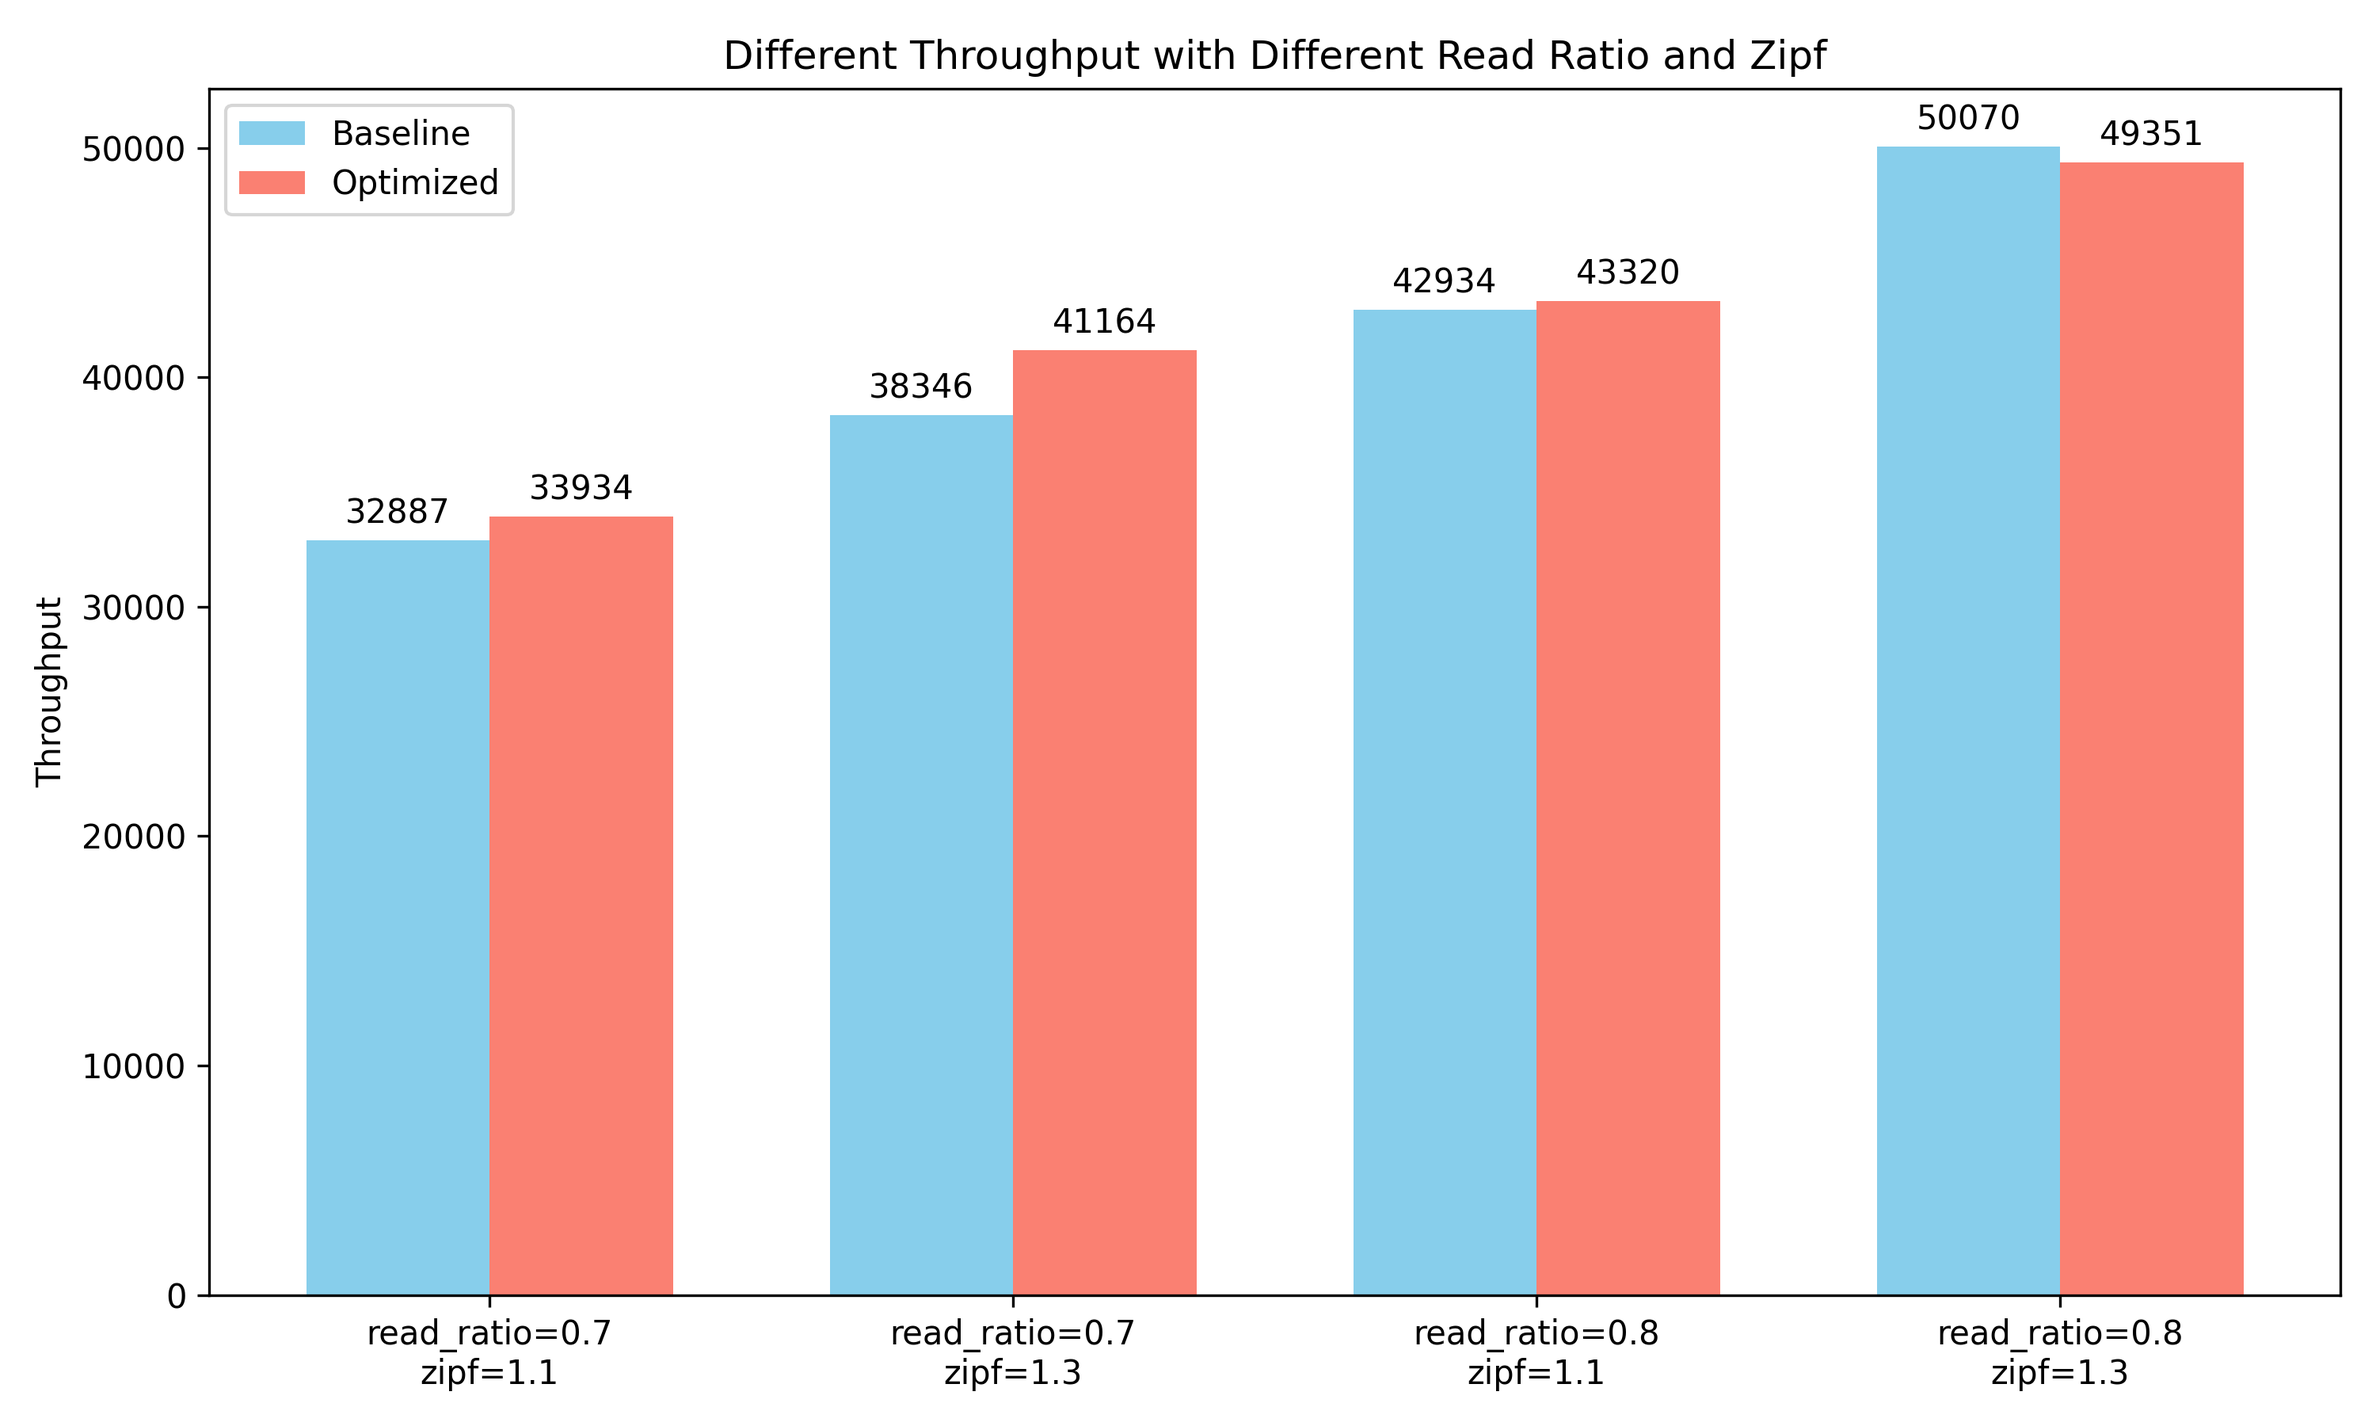
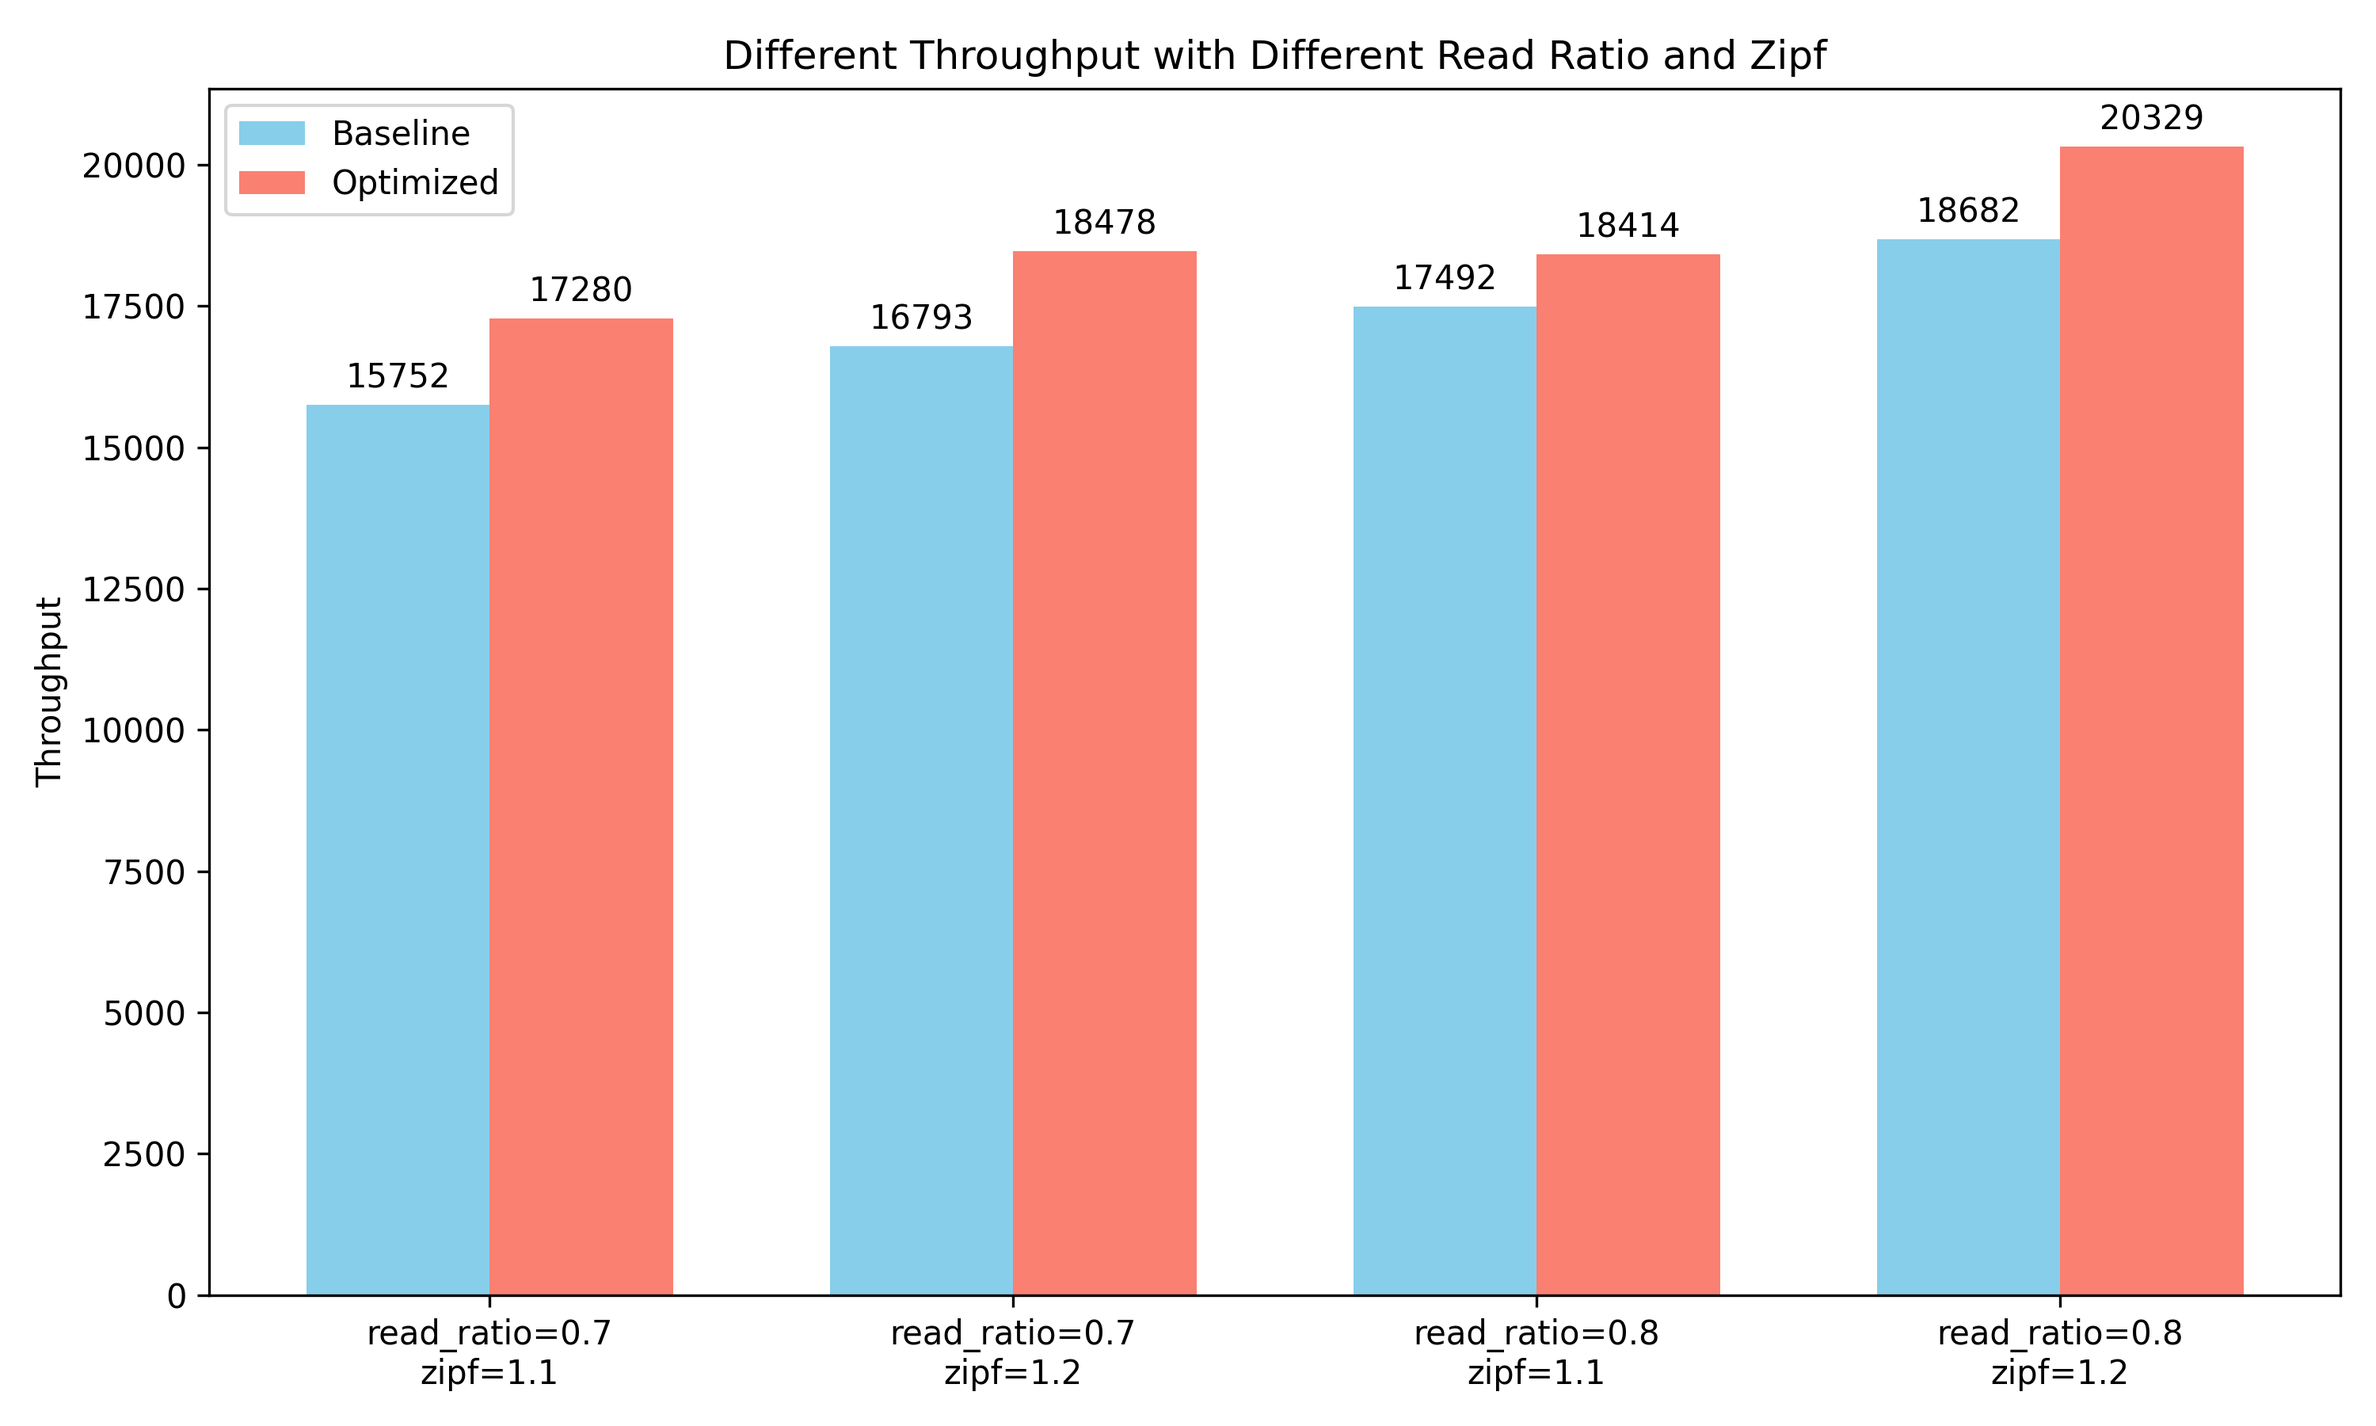
decay

diff --git a/src/main.rs b/src/main.rs
@@ -1,27 +1,104 @@
 use blitzkv::database::{Database, DatabaseError};
 use rand::prelude::*;
-use serde::Serialize;
+use serde::{Deserialize, Serialize};
+use std::fs;
 use std::path::PathBuf;
 use std::time::Instant;
 use tracing::{info, instrument};
 use tracing_subscriber;
 
-const NUM_KEYS: usize = 10_000;
+// 测试数据存放目录
+const TEST_DATA_DIR: &str = "test_data";
+const NUM_KEYS: usize = 50_000;
 const TOTAL_OPS: usize = 100_000;
 const UPDATE_RATIO: f64 = 0.15; // 固定15%
 const WRITE_RATIO: f64 = 0.05; // 固定5%
 const VALUE_SIZE: std::ops::Range<usize> = 600..1100;
 
-#[derive(Serialize)]
+#[derive(Serialize, Deserialize)]
 struct BenchmarkResult {
     variant: String,    // "baseline" 或 "optimized"
     read_ratio: f64,    // 例如 0.6 或 0.8
     zipf: f64,          // 例如 1.1, 1.2, 1.3
     throughput: f64,    // ops/sec
-    duration_secs: f64, // 运行时长，单位秒
+    duration_secs: f64, // 运行时长,单位秒
     hit_ratio: f64,
     read_ssd_ops: u64,
     write_ssd_ops: u64,
+}
+
+// 保存测试操作的结构体
+#[derive(Serialize, Deserialize)]
+struct TestOperation {
+    op_type: u8, // 0: read, 1: update, 2: write
+    key_idx: usize,
+    value: Option<Vec<u8>>, // 对于update和write操作需要新的value
+}
+
+#[derive(Serialize, Deserialize)]
+struct TestData {
+    keys: Vec<Vec<u8>>,
+    values: Vec<Vec<u8>>,
+    operations: Vec<TestOperation>,
+}
+
+impl TestData {
+    fn save_to_file(&self, path: &std::path::Path) -> std::io::Result<()> {
+        let json = serde_json::to_string(self)?;
+        fs::write(path, json)
+    }
+
+    fn load_from_file(path: &std::path::Path) -> std::io::Result<Self> {
+        let json = fs::read_to_string(path)?;
+        Ok(serde_json::from_str(&json)?)
+    }
+
+    fn generate<R: Rng>(rng: &mut R, read_ratio: f64, zipf_param: f64) -> Self {
+        // 1. 生成初始键值对
+        let (keys, values) = generate_kv_pairs(rng, NUM_KEYS);
+
+        // 2. 生成操作序列
+        let zipf = zipf::ZipfDistribution::new(NUM_KEYS, zipf_param).unwrap();
+        let mut operations = Vec::with_capacity(TOTAL_OPS);
+        let mut current_key_id = NUM_KEYS;
+
+        for _ in 0..TOTAL_OPS {
+            let op = rng.gen::<f64>();
+            let operation = if op < read_ratio {
+                // 读操作
+                TestOperation {
+                    op_type: 0,
+                    key_idx: zipf.sample(rng) - 1,
+                    value: None,
+                }
+            } else if op < read_ratio + UPDATE_RATIO {
+                // 更新操作
+                TestOperation {
+                    op_type: 1,
+                    key_idx: zipf.sample(rng) - 1,
+                    value: Some(generate_value(rng)),
+                }
+            } else {
+                // 写入新键
+                TestOperation {
+                    op_type: 2,
+                    key_idx: current_key_id,
+                    value: Some(generate_value(rng)),
+                }
+            };
+
+            if operation.op_type == 2 {
+                current_key_id += 1;
+            }
+            operations.push(operation);
+        }
+
+        TestData {
+            keys,
+            values,
+            operations,
+        }
+    }
 }
 
 fn generate_kv_pairs<R: Rng>(rng: &mut R, num_keys: usize) -> (Vec<Vec<u8>>, Vec<Vec<u8>>) {
@@ -41,7 +118,15 @@ fn generate_value<R: Rng>(rng: &mut R) -> Vec<u8> {
     (0..value_len).map(|_| rng.gen()).collect()
 }
 
-/// 带参数的基准测试函数，返回一个 BenchmarkResult
+fn get_test_data_path(read_ratio: f64, zipf_param: f64) -> PathBuf {
+    PathBuf::from(TEST_DATA_DIR).join(format!(
+        "test_data_r{:.0}_z{}.json",
+        read_ratio * 100.0,
+        zipf_param
+    ))
+}
+
+/// 带参数的基准测试函数,返回一个 BenchmarkResult
 #[instrument(skip(db))]
 fn run_benchmark_with_params(
     db: &mut Database,
@@ -53,52 +138,71 @@ fn run_benchmark_with_params(
         "Starting benchmark with read_ratio={:.2}, zipf={:.2}, variant={}",
         read_ratio, zipf_param, variant
     );
-    let mut rng = rand::thread_rng();
 
-    // 1. 生成测试数据
-    info!("Generating {} key-value pairs...", NUM_KEYS);
-    let (keys, mut values) = generate_kv_pairs(&mut rng, NUM_KEYS);
+    // 尝试加载或生成测试数据
+    let test_data_path = get_test_data_path(read_ratio, zipf_param);
+    let test_data = if test_data_path.exists() {
+        info!("Loading test data from {:?}", test_data_path);
+        TestData::load_from_file(&test_data_path).unwrap()
+    } else {
+        info!("Generating new test data...");
+        let mut rng = rand::thread_rng();
+        let data = TestData::generate(&mut rng, read_ratio, zipf_param);
 
-    // 2. 预填充数据库
+        // 确保目录存在
+        if let Some(parent) = test_data_path.parent() {
+            fs::create_dir_all(parent).unwrap();
+        }
+
+        // 保存测试数据
+        info!("Saving test data to {:?}", test_data_path);
+        data.save_to_file(&test_data_path).unwrap();
+        data
+    };
+
+    // 预填充数据库
     info!("Pre-populating database...");
-    for (key, value) in keys.iter().zip(values.iter()) {
+    for (key, value) in test_data.keys.iter().zip(test_data.values.iter()) {
         db.set(key, value)?;
     }
 
-    // 3. 初始化 Zipf 分布和统计数据
-    let zipf = zipf::ZipfDistribution::new(NUM_KEYS, zipf_param).unwrap();
+    let mut values = test_data.values;
     let mut current_key_id = NUM_KEYS;
     let mut op_counts = [0; 3]; // [read, update, write]
 
-    // 4. 运行基准测试
+    // 运行基准测试
     info!("Starting benchmark ({} operations)...", TOTAL_OPS);
     let start_time = Instant::now();
 
-    for _ in 0..TOTAL_OPS {
-        let op = rng.gen::<f64>();
-
-        if op < read_ratio {
-            let idx = zipf.sample(&mut rng) - 1;
-            let stored = db.get(&keys[idx])?;
-            assert_eq!(
-                stored,
-                values[idx],
-                "Data mismatch for key {}",
-                String::from_utf8_lossy(&keys[idx])
-            );
-            op_counts[0] += 1;
-        } else if op < read_ratio + UPDATE_RATIO {
-            let idx = zipf.sample(&mut rng) - 1;
-            let new_value = generate_value(&mut rng);
-            db.set(&keys[idx], &new_value)?;
-            values[idx] = new_value;
-            op_counts[1] += 1;
-        } else {
-            let new_key = format!("key_{:08}", current_key_id).into_bytes();
-            let new_value = generate_value(&mut rng);
-            db.set(&new_key, &new_value)?;
-            current_key_id += 1;
-            op_counts[2] += 1;
+    for op in test_data.operations.iter() {
+        match op.op_type {
+            0 => {
+                // 读操作
+                let stored = db.get(&test_data.keys[op.key_idx])?;
+                assert_eq!(
+                    stored,
+                    values[op.key_idx],
+                    "Data mismatch for key {}",
+                    String::from_utf8_lossy(&test_data.keys[op.key_idx])
+                );
+                op_counts[0] += 1;
+            }
+            1 => {
+                // 更新操作
+                let new_value = op.value.as_ref().unwrap();
+                db.set(&test_data.keys[op.key_idx], new_value)?;
+                values[op.key_idx] = new_value.clone();
+                op_counts[1] += 1;
+            }
+            2 => {
+                // 写入新键
+                let new_key = format!("key_{:08}", current_key_id).into_bytes();
+                let new_value = op.value.as_ref().unwrap();
+                db.set(&new_key, new_value)?;
+                current_key_id += 1;
+                op_counts[2] += 1;
+            }
+            _ => unreachable!(),
         }
     }
 
@@ -115,7 +219,7 @@ fn run_benchmark_with_params(
 
     let hit_ratio = db.hit_ratio();
     let ssd_metrics = db.metrics();
-    // 返回结构化结果
+
     Ok(BenchmarkResult {
         variant: variant.to_string(),
         read_ratio,
@@ -134,11 +238,14 @@ fn main() -> Result<(), DatabaseError> {
         .init();
 
     let data_dir = PathBuf::from("data");
+    // remove test_data dir
+    std::fs::remove_dir_all(TEST_DATA_DIR).unwrap();
     std::fs::create_dir_all(&data_dir).unwrap();
+    std::fs::create_dir_all(TEST_DATA_DIR).unwrap();
 
-    let read_ratios = vec![0.8, 0.7];
-    let zipf_params = vec![1.1, 1.3];
-    let variants = vec![("optimized", 2), ("baseline", 200)];
+    let read_ratios = vec![0.7, 0.8];
+    let zipf_params = vec![1.1, 1.2];
+    let variants = vec![("optimized", 2), ("baseline", 300)];
 
     let mut all_results = Vec::new();
 
@@ -146,7 +253,7 @@ fn main() -> Result<(), DatabaseError> {
     for &(variant_name, hot_threshold) in &variants {
         for &read_ratio in &read_ratios {
             for &zipf_param in &zipf_params {
-                // 为每个实验构造不同的数据库文件路径，避免冲突
+                // 为每个实验构造不同的数据库文件路径,避免冲突
                 let db_path = data_dir.join(format!(
                     "bench_{}_r{:.0}_z{}.db",
                     variant_name,
@@ -165,7 +272,7 @@ fn main() -> Result<(), DatabaseError> {
         }
     }
 
-    // 输出为 JSON 文件（也可以改成 CSV）
+    // 输出为 JSON 文件
     let json = serde_json::to_string_pretty(&all_results).unwrap();
     std::fs::write("results.json", json).unwrap();
     info!("All benchmark results written to results.json");

diff --git a/src/database.rs b/src/database.rs
@@ -3,6 +3,7 @@ use std::cell::RefCell;
 use std::collections::{BTreeMap, HashMap};
 use std::path::Path;
 use std::rc::Rc;
+use std::time::{SystemTime, UNIX_EPOCH};
 
 use tracing::{debug, error, info, warn};
 
@@ -10,22 +11,34 @@ use crate::storage::device::{SsdDevice, SsdError, SsdMetrics};
 use crate::storage::page::Page;
 
 const DEFAULT_PAGE_SIZE: u32 = 4096; // 4KB page size
-const DEFAULT_CACHE_SIZE: usize = 100; // 100 pages in cache
+const DEFAULT_CACHE_SIZE: usize = 50; // 100 pages in cache
 
-/// `ObjectMetadata` only keeps `freq_accessed` to determine data hotness.
-#[derive(Debug, Copy, Clone, PartialEq, Eq)]
+const DECAY_RATE: f64 = 0.2; // Decay rate parameter lambda
+
+/// `ObjectMetadata` keeps track of access patterns with decay.
+#[derive(Debug, Copy, Clone)]
 pub struct ObjectMetadata {
     pub location: Location,
     pub size: u32,
-    pub freq_accessed: u32, // access frequency
+    pub freq_accessed: f64, // access frequency with decay
+    pub last_access: u64,   // timestamp of last access
 }
 
 impl ObjectMetadata {
-    /// Update hotness based on access frequency
+    /// Update hotness based on access frequency with exponential decay
     /// Returns true if hot
     pub fn update_hotness(&mut self, hot_threshold: u32) -> bool {
-        self.freq_accessed += 1;
-        self.freq_accessed >= hot_threshold
+        let now = SystemTime::now()
+            .duration_since(UNIX_EPOCH)
+            .unwrap()
+            .as_secs();
+
+        let time_diff = (now - self.last_access) as f64;
+        // Apply exponential decay: old_freq * e^(-λt) + 1
+        self.freq_accessed = self.freq_accessed * (-DECAY_RATE * time_diff).exp() + 1.0;
+        self.last_access = now;
+        info!("freq is {}", self.freq_accessed);
+        self.freq_accessed >= hot_threshold as f64
     }
 }
 
@@ -156,14 +169,6 @@ impl PageManager {
             return Ok(Rc::clone(page));
         }
         self.miss_count += 1;
-        // Then check in-memory pages
-        if let Some(status) = self.pages.get(&page_id) {
-            if let Some(page) = &status.in_memory {
-                let page_rc = Rc::clone(page);
-                self.page_cache.insert(page_id, Rc::clone(&page_rc));
-                return Ok(page_rc);
-            }
-        }
 
         // Finally read from disk
         let page = self.device.read_page(page_id)?;
@@ -264,20 +269,20 @@ impl PageManager {
         is_hot: bool,
     ) -> Result<Option<Location>, PageManagerError> {
         let location = self.set_inner(key, value, is_hot)?;
+        // After writing, we keep the page in memory since it's already up to date
+        // Only update free space tracking
         if let Some(loc) = &location {
-            let mut old_free = None;
-            let mut is_hot = None;
-            if let Some(status) = self.pages.get_mut(&loc.page_id) {
-                old_free = Some(status.free_space);
-                status.in_memory = None;
-                status.free_space = 0;
-                is_hot = Some(status.is_hot);
+            if let Some(status) = self.pages.get(&loc.page_id) {
+                let old_free = status.free_space;
+                let is_hot = status.is_hot;
+                if let Some(page_rc) = &status.in_memory {
+                    let new_free = page_rc.borrow().free_space() as usize;
+                    if let Some(status) = self.pages.get_mut(&loc.page_id) {
+                        status.free_space = new_free;
+                    }
+                    self.update_free_space_index(loc.page_id, old_free, new_free, is_hot);
+                }
             }
-            if let Some(old_free) = old_free {
-                self.update_free_space_index(loc.page_id, old_free, 0, is_hot.unwrap());
-            }
-            // Remove from cache when page is written
-            self.page_cache.remove(&loc.page_id);
         }
         Ok(location)
     }
@@ -335,10 +340,15 @@ impl Database {
                     String::from_utf8_lossy(key),
                     location
                 );
+                let now = SystemTime::now()
+                    .duration_since(UNIX_EPOCH)
+                    .unwrap()
+                    .as_secs();
                 let metadata = ObjectMetadata {
                     location,
                     size: (key.len() + value.len()) as u32,
-                    freq_accessed: 1, // Updated access frequency
+                    freq_accessed: 1.0,
+                    last_access: now,
                 };
                 self.index.insert(key.to_vec(), metadata);
                 Ok(())
